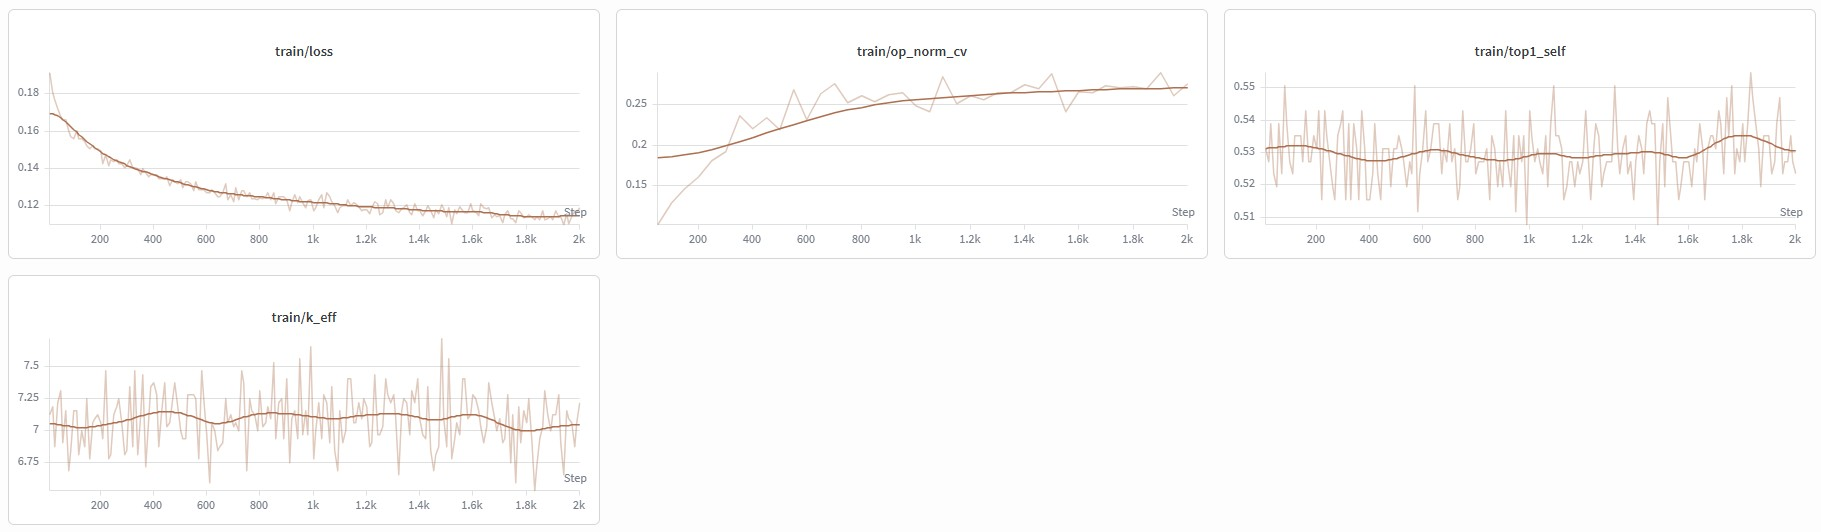
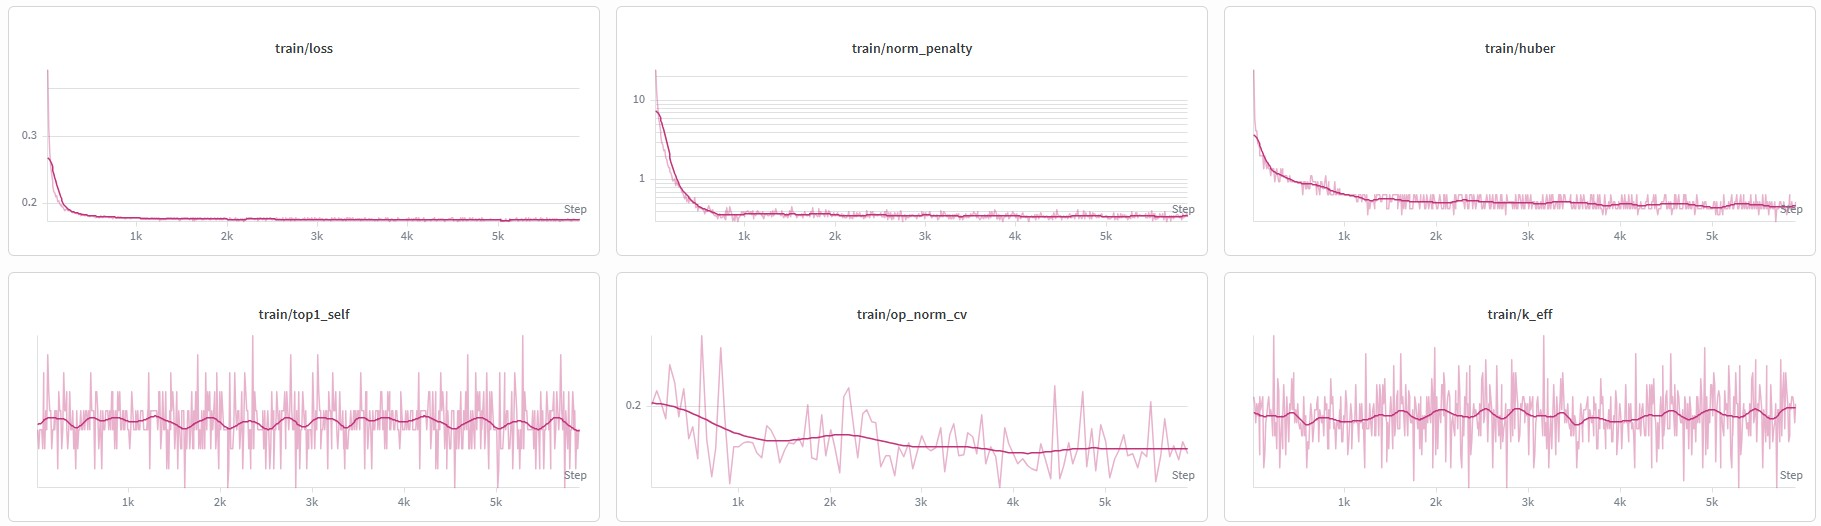
adr 33

diff --git a/.know/decisions/033_spherical_latent_space_and_slerp.md b/.know/decisions/033_spherical_latent_space_and_slerp.md
@@ -1,0 +1,17 @@
+<!-- created: 2026-06-13 -->
+# ADR 033: Переход на Spherical Latent Space и Slerp для диффузии
+
+## Context and Problem
+В процессе обучения OutputProjector (Phase 3) выяснилось, что целевые векторы `D_X0` (выход `mu_head` из `InputProjector`) имеют заметный разброс амплитуд (norm_cv = 0.160). При этом диффузионная модель геометрически хуже справляется с генерацией векторов переменной длины (радиальное движение), а семантический смысл в латентном пространстве закодирован преимущественно в направлении (углах), а не в длине вектора. 
+Дополнительно линейная интерполяция между векторами "проваливается" внутрь сферы, заставляя модель предсказывать паразитное радиальное движение, не несущее семантической нагрузки (статья "Aligning Latent Geometry for Spherical Flow Matching").
+
+## Decisions Made and Lessons Learned
+- **Определение латентного пространства:** Целевое пространство X0 сдвигается на один слой "назад" — до `mu_head`. Теперь $X0_{sphere}$ определяется как выход слоя `LayerNorm` внутри `InputProjector`. Это гарантирует, что целевые векторы `D_X0` лежат на гиперсфере радиуса $R \approx \sqrt{1024} = 32$.
+- **Нормализация в OutputProjector:** На выход OP добавляется `LayerNorm` (вместо `F.normalize`). Это гарантирует норму $\approx 32$ и точное соответствие масштабу, который ожидает DUSModel. Штраф за норму (`norm_penalty`) полностью удалён.
+- **Транспорт (Phase 8):** В диффузионной фазе линейная интерполяция заменяется на сферическую (Slerp), а в качестве шумового априорного распределения используется гауссовый шум, спроецированный на сферу. 
+- **Инференс:** Диффузия генерирует точку на сфере ($X_{gen}$), которая затем пропускается через замороженный `mu_head` (аффинное преобразование) и передаётся в DUSModel. Окрестности смыслов, выученные VAE, при этом полностью сохраняются благодаря обратимости аффинного сдвига.
+
+## Impact
+- **Позитивно:** OutputProjector и диффузионная модель обучаются только семантике (углам), избавленные от необходимости предсказывать паразитные изменения норм. Ускоряется сходимость, исключается "провал" геометрии при диффузии. Инференс остаётся математически точным.
+- **Позитивно:** Уверенность диффузии имеет чистый геометрический смысл — предсказанный касательный вектор на сфере.
+- **Негативно:** Требуется перегенерация словаря `D_X0` и адаптация диффузионных формул в будущем под Slerp.
